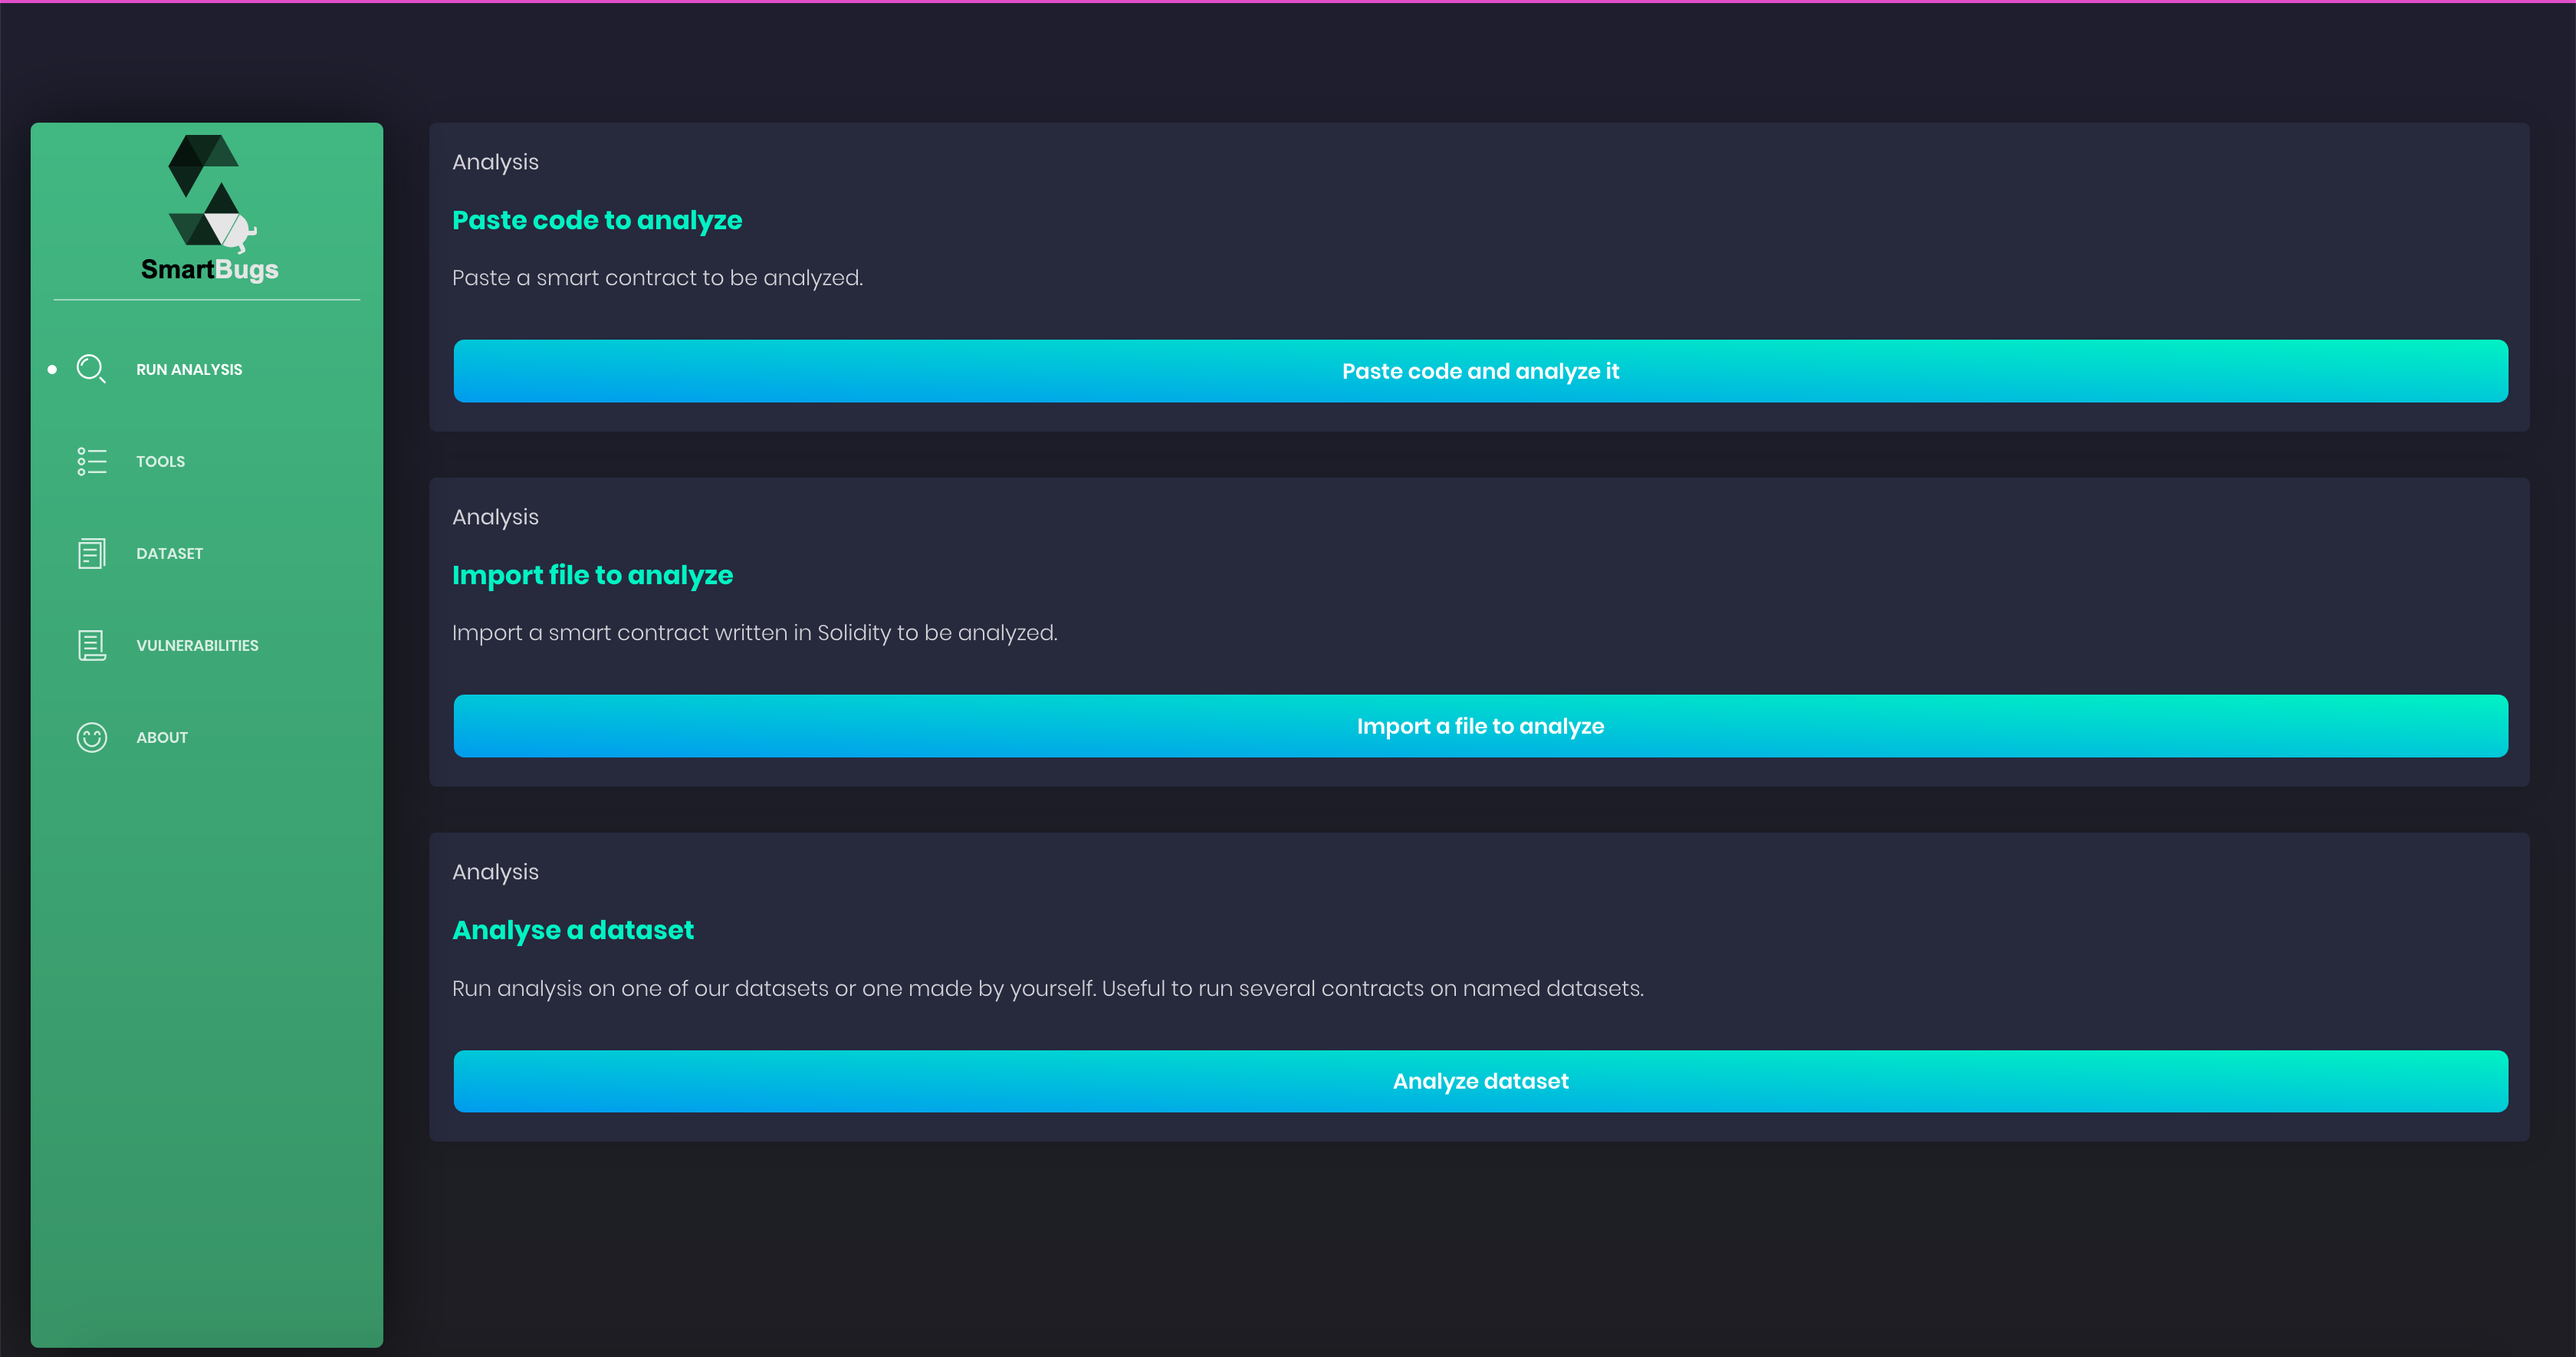
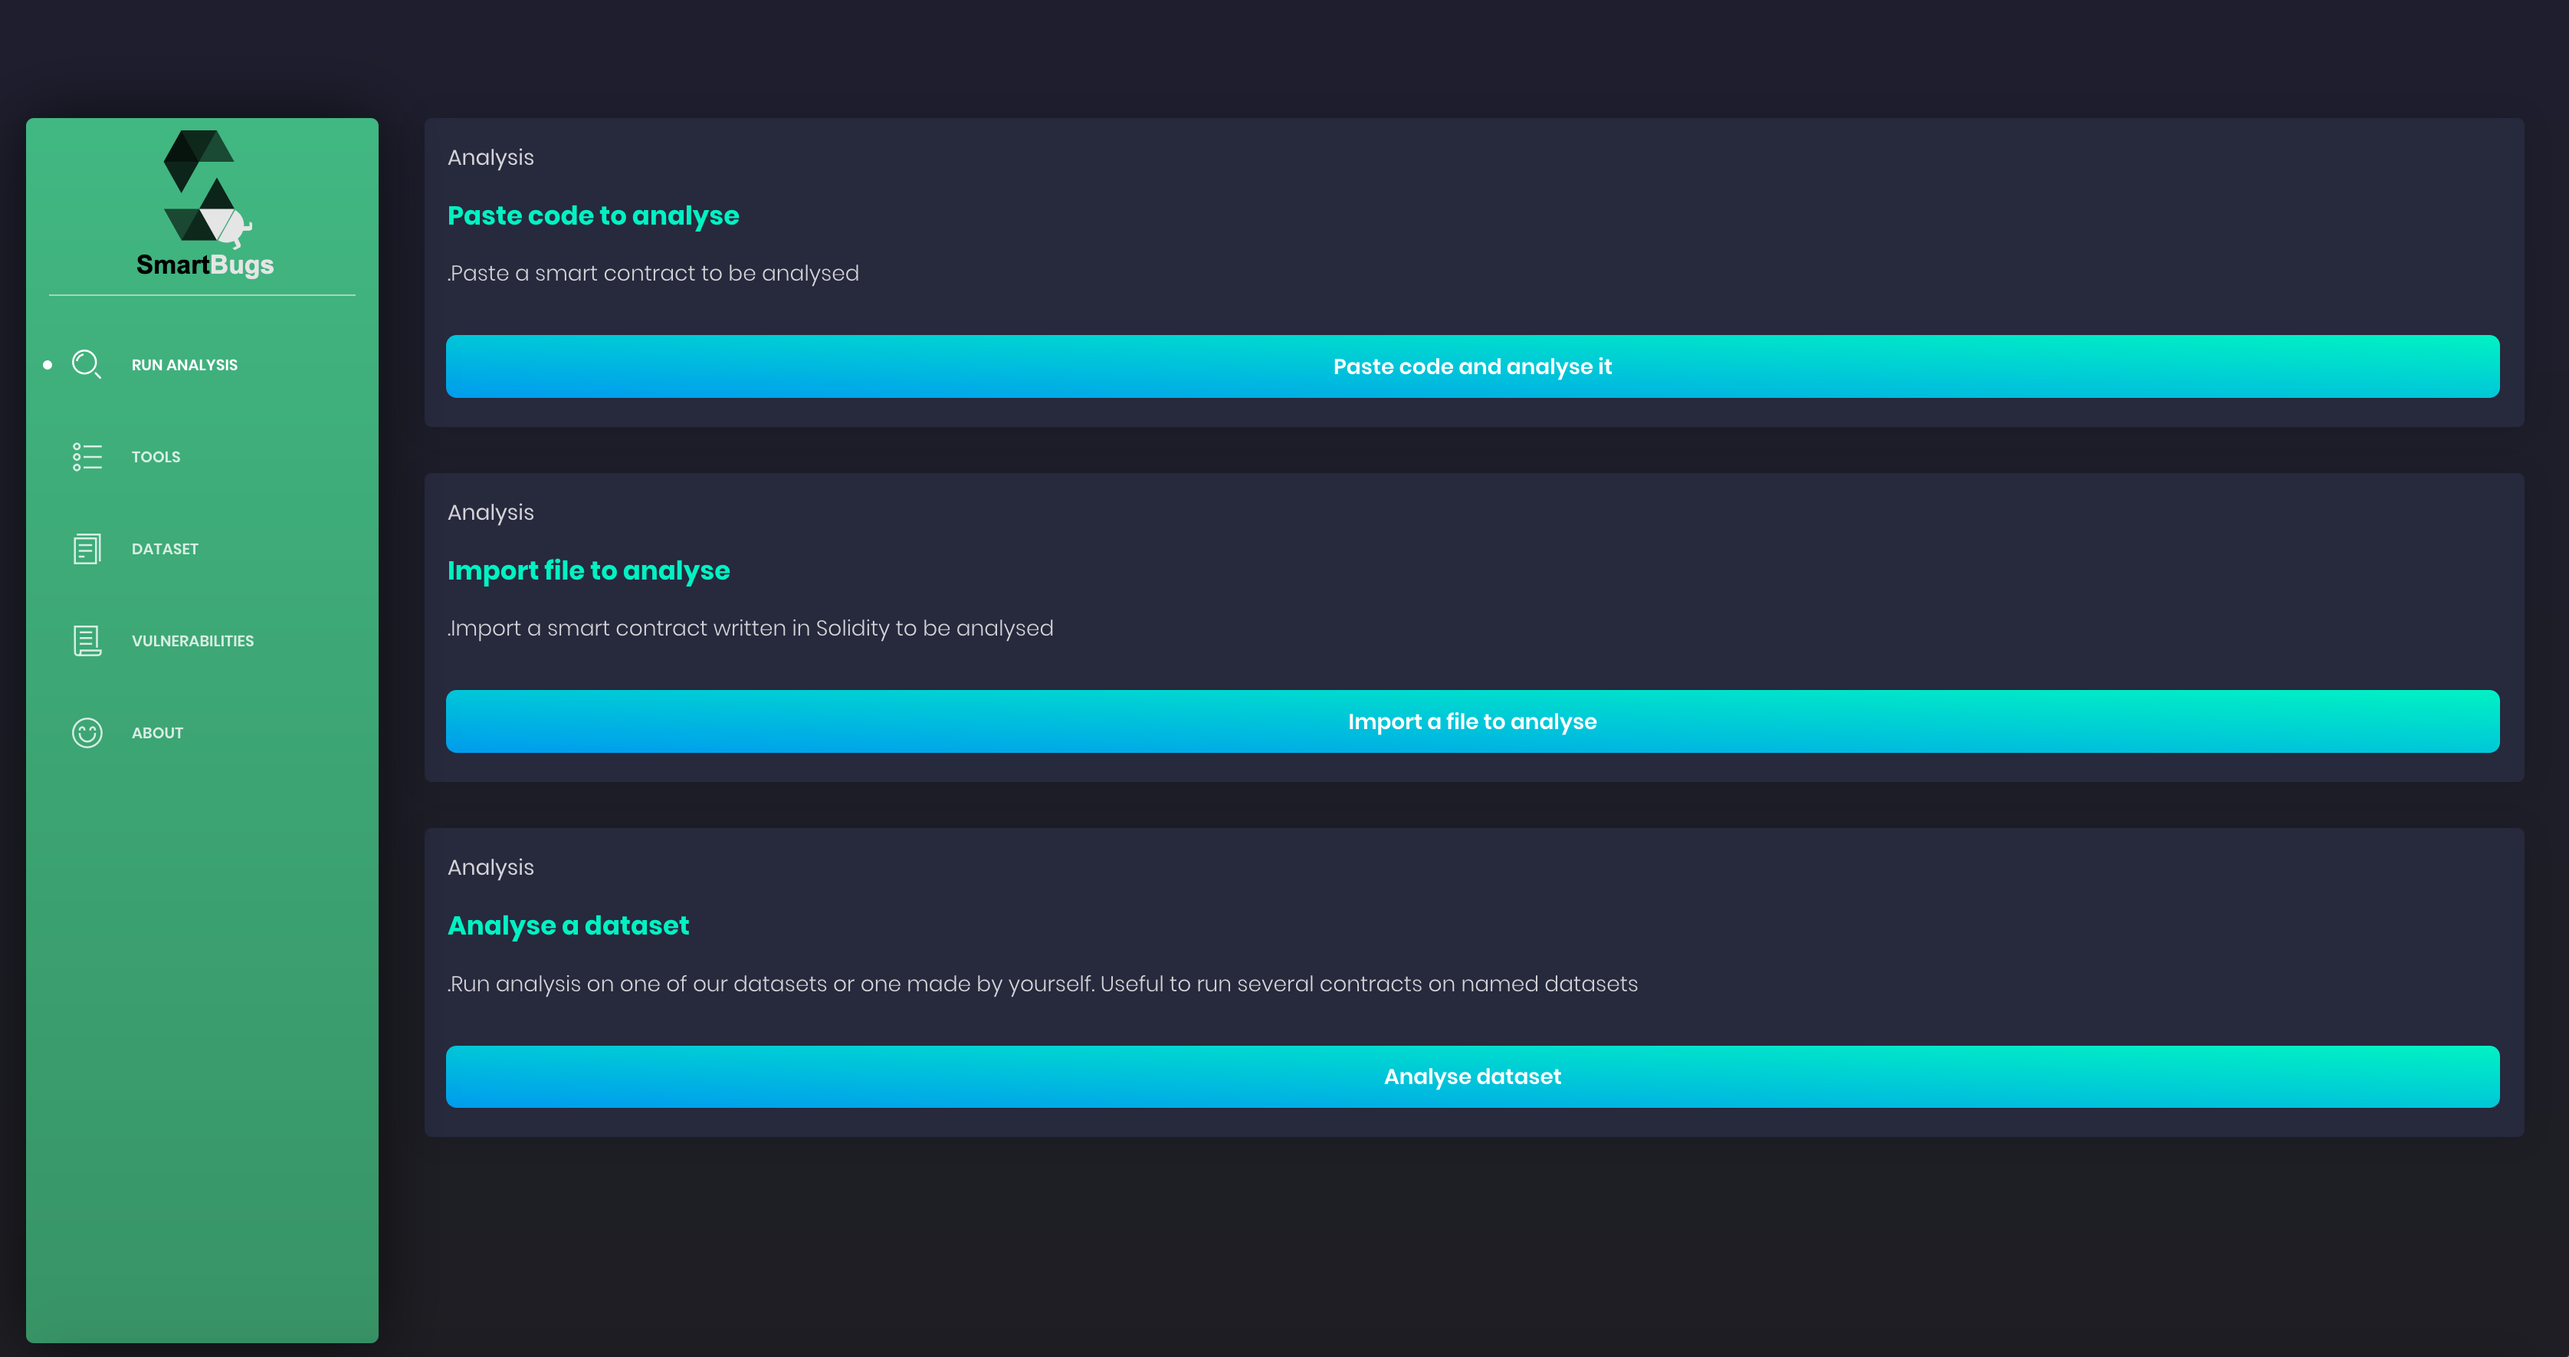
Fix typo

diff --git a/src/pages/Analyze.vue b/src/pages/Analyze.vue
@@ -3,30 +3,30 @@
     <card>
       <span slot="header">Analysis</span>
       <h4 class="text-success">
-        <b>Paste code to analyze</b>
+        <b>Paste code to analyse</b>
       </h4>
-      <p class="card-text">Paste a smart contract to be analyzed.</p>
+      <p class="card-text">Paste a smart contract to be analysed.</p>
       <br />
       <base-button
         block
         type="success"
         native-type="Submit"
         @click="analyzePastedFile"
-      >Paste code and analyze it</base-button>
+      >Paste code and analyse it</base-button>
     </card>
     <card>
       <span slot="header">Analysis</span>
       <h4 class="text-success">
-        <b>Import file to analyze</b>
+        <b>Import file to analyse</b>
       </h4>
-      <p class="card-text">Import a smart contract written in Solidity to be analyzed.</p>
+      <p class="card-text">Import a smart contract written in Solidity to be analysed.</p>
       <br />
       <base-button
         block
         type="success"
         native-type="Submit"
         @click="analyzeImportedFile"
-      >Import a file to analyze</base-button>
+      >Import a file to analyse</base-button>
     </card>
 
     <card>
@@ -38,7 +38,7 @@
         class="card-text"
       >Run analysis on one of our datasets or one made by yourself. Useful to run several contracts on named datasets.</p>
       <br />
-      <base-button block type="success" native-type="Submit" @click="analyzeDataset">Analyze dataset</base-button>
+      <base-button block type="success" native-type="Submit" @click="analyzeDataset">Analyse dataset</base-button>
     </card>
   </div>
 </template>

diff --git a/src/pages/AnalyzeImportedFile.vue b/src/pages/AnalyzeImportedFile.vue
@@ -653,7 +653,7 @@ export default {
         this.loading = false;
         if (this.input === "") {
           this.errorMessage =
-            "Please provide a smart contract or a block of code to analyze ";
+            "Please provide a smart contract or a block of code to analyse ";
           this.showSnackbar = true;
         } else {
           this.errorMessage = "Upss! Something went wrong... ";

diff --git a/src/pages/AnalyzePastedFile.vue b/src/pages/AnalyzePastedFile.vue
@@ -640,7 +640,7 @@ export default {
         this.loading = false;
         if (this.input === "") {
           this.errorMessage =
-            "Please provide a smart contract or a block of code to analyze ";
+            "Please provide a smart contract or a block of code to analyse ";
           this.showSnackbar = true;
         } else {
           this.errorMessage = "Upss! Something went wrong... ";
